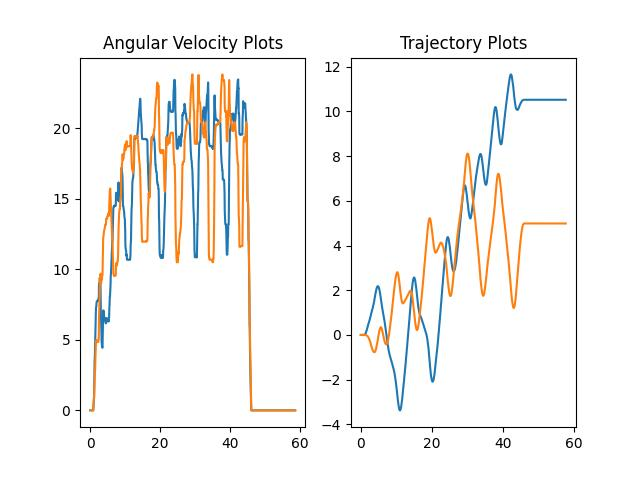
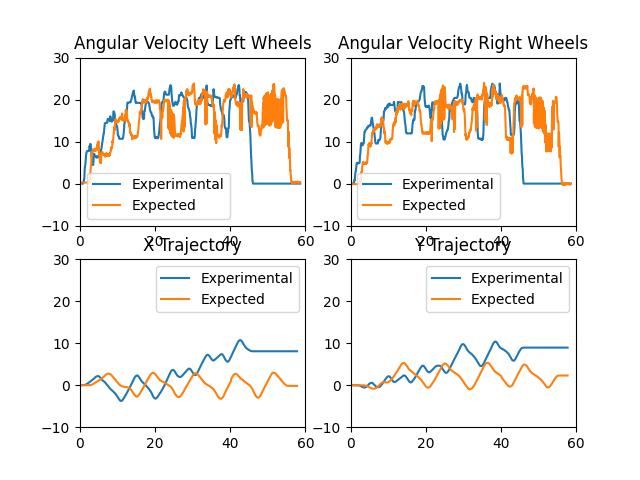
Finished graph generation function.

diff --git a/src/gazebo_eval.py b/src/gazebo_eval.py
@@ -115,13 +115,28 @@ class DataCompare:
         # Log trajectories, joint states, and times
         ang_vel_time = np.arange(len(self.ang_vel_l)) / 20.0
         traj_time = np.arange(len(self.trajectory_x)) / 30.0
-        fig, (ax1, ax2) = plt.subplots(1, 2)
-        ax1.plot(ang_vel_time, self.ang_vel_l, label="Ang Vel Left Wheel")
-        ax1.plot(ang_vel_time, self.ang_vel_r, label="Ang Vel Right Wheel")
-        ax1.set_title("Angular Velocity Plots")
-        ax2.plot(traj_time, self.trajectory_x, label="X Trajectory")
-        ax2.plot(traj_time, self.trajectory_y, label="Y Trajectory")
-        ax2.set_title("Trajectory Plots")
+        fig, axs = plt.subplots(2, 2)
+        plt.setp(axs, xlim=(0, 60), ylim=(-10, 30))
+
+        axs[0][0].plot(ang_vel_time, self.ang_vel_l, label="Experimental")
+        axs[0][0].plot(ang_vel_time, np.array(self.odom["velocity left wheel"]) - self.start_vl, label="Expected")
+        axs[0][0].set_title("Angular Velocity Left Wheels")
+        axs[0][0].legend()
+
+        axs[0][1].plot(ang_vel_time, self.ang_vel_r, label="Experimental")
+        axs[0][1].plot(ang_vel_time, np.array(self.odom["velocity right wheel"]) - self.start_vr, label="Expected")
+        axs[0][1].set_title("Angular Velocity Right Wheels")
+        axs[0][1].legend()
+
+        axs[1][0].plot(traj_time, self.trajectory_x, label="Experimental")
+        axs[1][0].plot(traj_time, np.array(self.local_truth["x"]) - self.start_x, label="Expected")
+        axs[1][0].set_title("X Trajectory")
+        axs[1][0].legend()
+
+        axs[1][1].plot(traj_time, self.trajectory_y, label="Experimental")
+        axs[1][1].plot(traj_time, np.array(self.local_truth["y"]) - self.start_y, label="Expected")
+        axs[1][1].set_title("Y Trajectory")
+        axs[1][1].legend()
 
         filename = f"{self.curr_dir}/output/plots_run"
         i = 0
